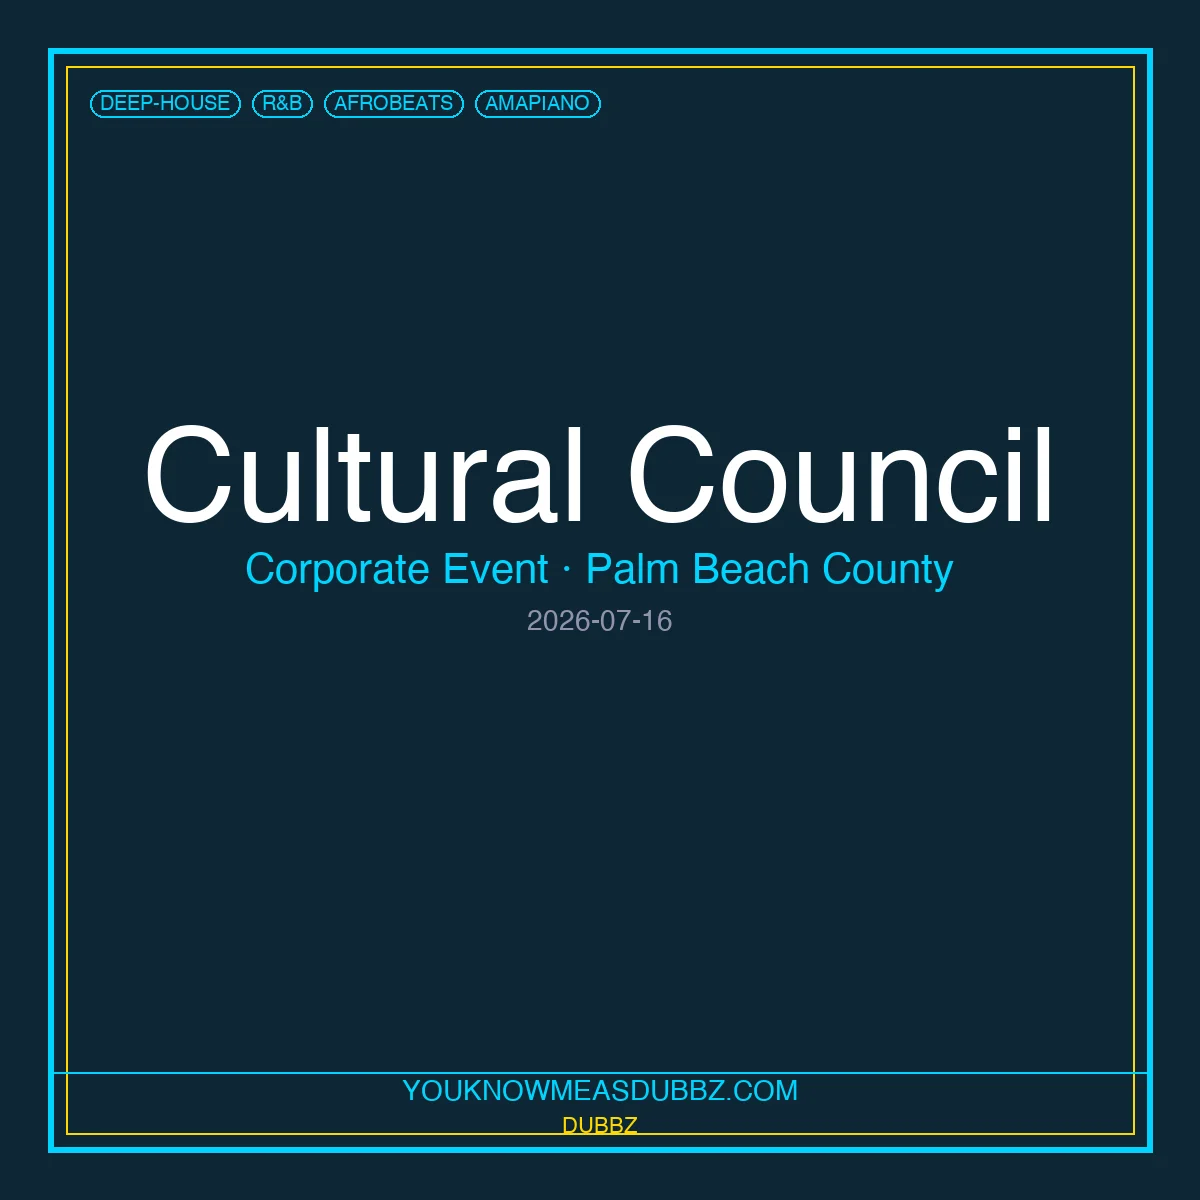
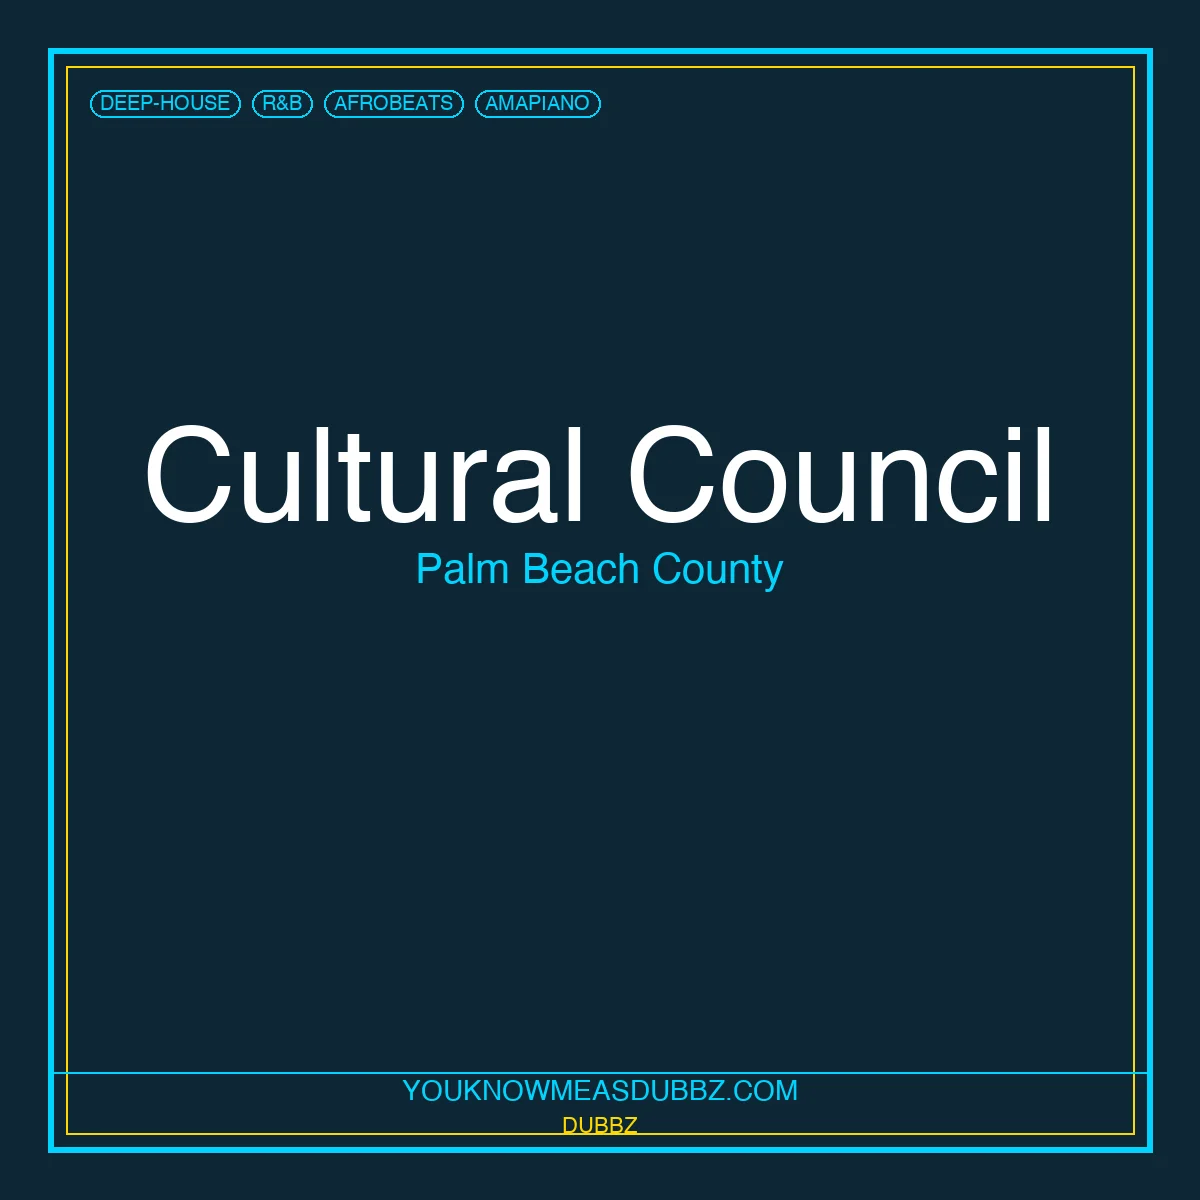
refactor(mixes): remove dates from covers, update generator
- Remove date field from all 5 mix frontmatter
- Remove year suffixes from cover filenames (e.g. -2024.webp → .webp)
- Update gen-cover.py to remove --date argument and date rendering
- Make date optional in content config schema
- Fix mixes.json API and mixes.astro to handle missing dates
- Generate new branded covers for all 5 mixes
- Upload new covers to Lightsail media host

Changed region(s): [[0.185, 0.4625, 0.8017, 0.5242]]

diff --git a/src/pages/api/mixes.json.ts b/src/pages/api/mixes.json.ts
@@ -8,7 +8,11 @@ export async function GET({ url }) {
 
   let filtered = allMixes
     .filter(mix => mix.data.published !== false)
-    .sort((a, b) => new Date(b.data.date).getTime() - new Date(a.data.date).getTime());
+    .sort((a, b) => {
+      const da = a.data.date ? new Date(a.data.date).getTime() : 0;
+      const db = b.data.date ? new Date(b.data.date).getTime() : 0;
+      return db - da;
+    });
 
   if (featured) {
     filtered = filtered.filter(mix => mix.data.featured);
@@ -20,7 +24,7 @@ export async function GET({ url }) {
     id: mix.id,
     title: mix.data.title,
     description: mix.data.description,
-    date: mix.data.date.toISOString().split('T')[0],
+    date: mix.data.date ? mix.data.date.toISOString().split('T')[0] : undefined,
     genre: mix.data.genre,
     duration: mix.data.duration,
     bpmRange: mix.data.bpmRange,

diff --git a/src/content/config.ts b/src/content/config.ts
@@ -24,7 +24,7 @@ const mixes = defineCollection({
   schema: z.object({
     title: z.string(),
     description: z.string(),
-    date: z.date(),
+    date: z.date().optional(),
     genre: z.array(z.string()),
     duration: z.string().optional(), // e.g. "1:23:45"
     bpmRange: z.string().optional(), // e.g. "69-136"

diff --git a/tools/mix-studio/gen-cover.py b/tools/mix-studio/gen-cover.py
@@ -1,13 +1,13 @@
 #!/usr/bin/env python3
 """Generate branded cover art for Dubbz mixes.
-Usage: python3 tools/mix-studio/gen-cover.py "Mix Title" --subtitle "Venue" --date 2026-09-19 --genres hip-hop,rnb --output /tmp/cover.png
+Usage: python3 tools/mix-studio/gen-cover.py "Mix Title" --subtitle "Venue" --genres hip-hop,rnb --output /tmp/cover.png
 """
 import argparse
 import sys
 import os
 from PIL import Image, ImageDraw, ImageFont
 
-# Brand colors
+# Brand colors — Dubbz dark + cyan + gold
 NAVY = (15, 15, 26)
 SURFACE = (26, 26, 46)
 CYAN = (0, 212, 255)
@@ -58,7 +58,7 @@ def text_height(text, font_obj, draw):
     return bbox[3] - bbox[1]
 
 
-def generate_cover(title, subtitle, date_str, genres, output_path, size=1200):
+def generate_cover(title, subtitle, genres, output_path, size=1200):
     img = Image.new("RGB", (size, size), NAVY)
     draw = ImageDraw.Draw(img)
 
@@ -132,13 +132,6 @@ def generate_cover(title, subtitle, date_str, genres, output_path, size=1200):
             draw.text((x, sub_y), line, fill=CYAN, font=sub_font)
             sub_y += text_height(line, sub_font, draw) + 8
 
-    # Date
-    if date_str:
-        date_y = sub_y + 24 if subtitle else title_y + 24
-        date_font = font(28)
-        draw.text((size // 2, date_y), date_str,
-                  fill=MUTED, font=date_font, anchor="mm")
-
     # Bottom branding bar
     bar_h = 80
     bar_y = size - margin - bar_h
@@ -163,13 +156,12 @@ def main():
     parser = argparse.ArgumentParser(description="Generate Dubbz mix cover art")
     parser.add_argument("title", help="Mix title")
     parser.add_argument("--subtitle", default="", help="Venue or event name")
-    parser.add_argument("--date", default="", help="Date string (e.g. 2026-09-19)")
     parser.add_argument("--genres", default="", help="Comma-separated genre tags")
     parser.add_argument("--output", required=True, help="Output PNG path")
     args = parser.parse_args()
 
     genres = [g.strip() for g in args.genres.split(",") if g.strip()] if args.genres else []
-    generate_cover(args.title, args.subtitle, args.date, genres, args.output)
+    generate_cover(args.title, args.subtitle, genres, args.output)
 
 
 if __name__ == "__main__":

diff --git a/src/content/mixes/wedding-reception-2024.md b/src/content/mixes/wedding-reception-2024.md
@@ -1,7 +1,6 @@
 ---
 title: "FLAVAR Presents: SCENE - LIVE MIX"
 description: "For your listening pleasure, here is a live recording of my set at FLAVAR's Art Concept \"SCENE\"."
-date: 2024-07-12
 genre: ["hip-hop", "dancehall", "top-40", "open-format", "classics"]
 duration: "35:44"
 bpmRange: "70-128"
@@ -9,7 +8,7 @@ trackCount: 85
 live: true
 venue: "FLAVAR Presents: SCENE"
 address: "West Palm Beach, Fl"
-coverImage: "/mixes/wedding-reception-2024.webp"
+coverImage: "/mixes/wedding-reception.webp"
 audioFile: "/mixes/wedding-reception-2024.mp3"
 downloadable: false
 featured: true

diff --git a/src/content/mixes/avacado-saturday.md b/src/content/mixes/avacado-saturday.md
@@ -1,7 +1,6 @@
 ---
 title: "Avacado Cantina - Saturday Sessions"
 description: "Weekly residency set at Avacado Cantina - Latin vibes"
-date: 2026-08-08
 genre: ["afrobeats", "latin", "classics"]
 duration: "88:32"
 bpmRange: "100-128"
@@ -9,7 +8,7 @@ trackCount: 68
 live: true
 venue: "Avacado Cantina"
 address: "Palm Beach Gardens"
-coverImage: "/mixes/avacado-saturday-2024.webp"
+coverImage: "/mixes/avacado-saturday.webp"
 audioFile: "/mixes/avacado-cantina-latin-2026.mp3"
 downloadable: false
 featured: true

diff --git a/src/content/mixes/flavar-summer-2024.md b/src/content/mixes/flavar-summer-2024.md
@@ -1,7 +1,6 @@
 ---
 title: "Shanghai'd - LIVE MiX"
 description: "Live set from FLAVAR Call Collect monthly Sunday day party at French Grille, Northwood Village"
-date: 2025-09-01
 genre: ["hip-hop", "r&b"]
 duration: "45:52"
 bpmRange: "90-128"
@@ -9,7 +8,7 @@ trackCount: 45
 live: true
 venue: "Shanghai'd"
 address: "West Palm Beach, Fl."
-coverImage: "/mixes/flavar-summer-2024.webp"
+coverImage: "/mixes/flavar-summer.webp"
 audioFile: "/mixes/flavar-summer-2024.mp3"
 downloadable: false
 featured: true

diff --git a/src/content/mixes/call-collect-mix-ddubbz.md b/src/content/mixes/call-collect-mix-ddubbz.md
@@ -1,7 +1,6 @@
 ---
 title: "Call Collect Mix - DDubbz"
 description: "Call Collect is a monthly party held by FLAVAR on the last Sunday of every month."
-date: 2022-06-20
 genre: ["r&b"]
 duration: "18:38"
 bpmRange: ""
@@ -9,7 +8,7 @@ trackCount: 0
 live: false
 venue: ""
 address: ""
-coverImage: "/mixes/call-collect-mix-ddubbz.png"
+coverImage: "/mixes/call-collect-mix-ddubbz.webp"
 audioFile: "/mixes/call-collect-mix-ddubbz.mp3"
 downloadable: false
 featured: true

diff --git a/src/content/mixes/cultural-council-open-format.md b/src/content/mixes/cultural-council-open-format.md
@@ -1,7 +1,6 @@
 ---
 title: "Cultural Council of Palm Beach County - Corporate Event"
 description: "Cultural Council of Palm Beach County Event"
-date: 2026-07-16
 genre: ["deep-house", "r&b", "afrobeats", "amapiano", "top-40", "open-format", "classics", "afro-house"]
 duration: "110:15"
 bpmRange: "70-130"
